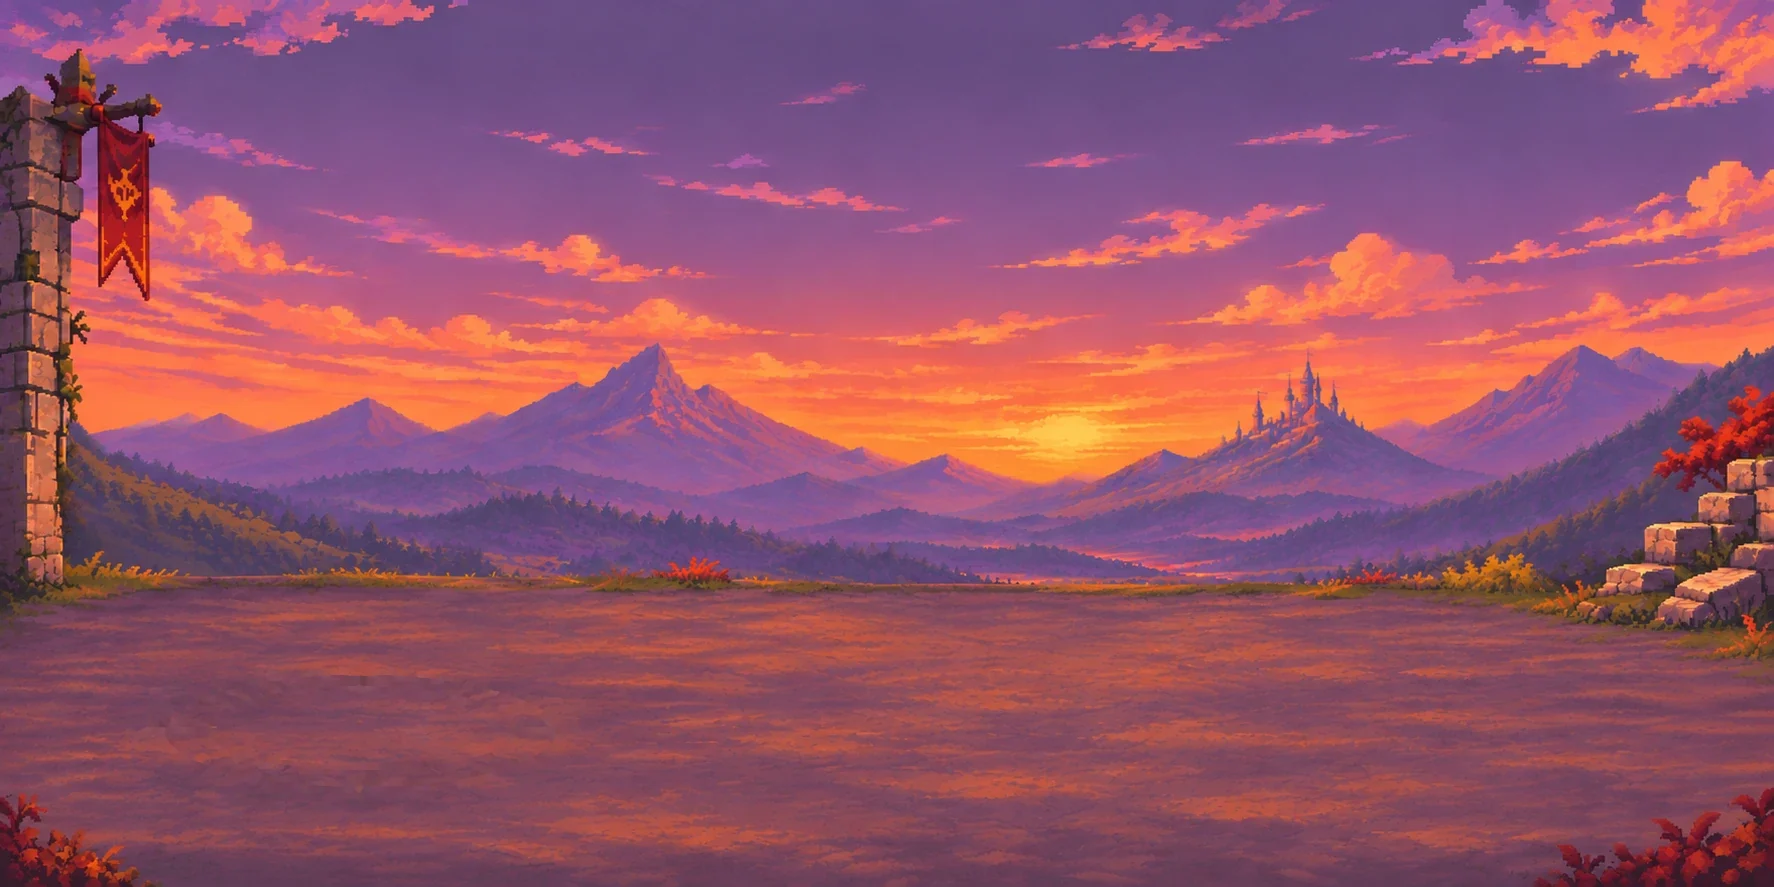
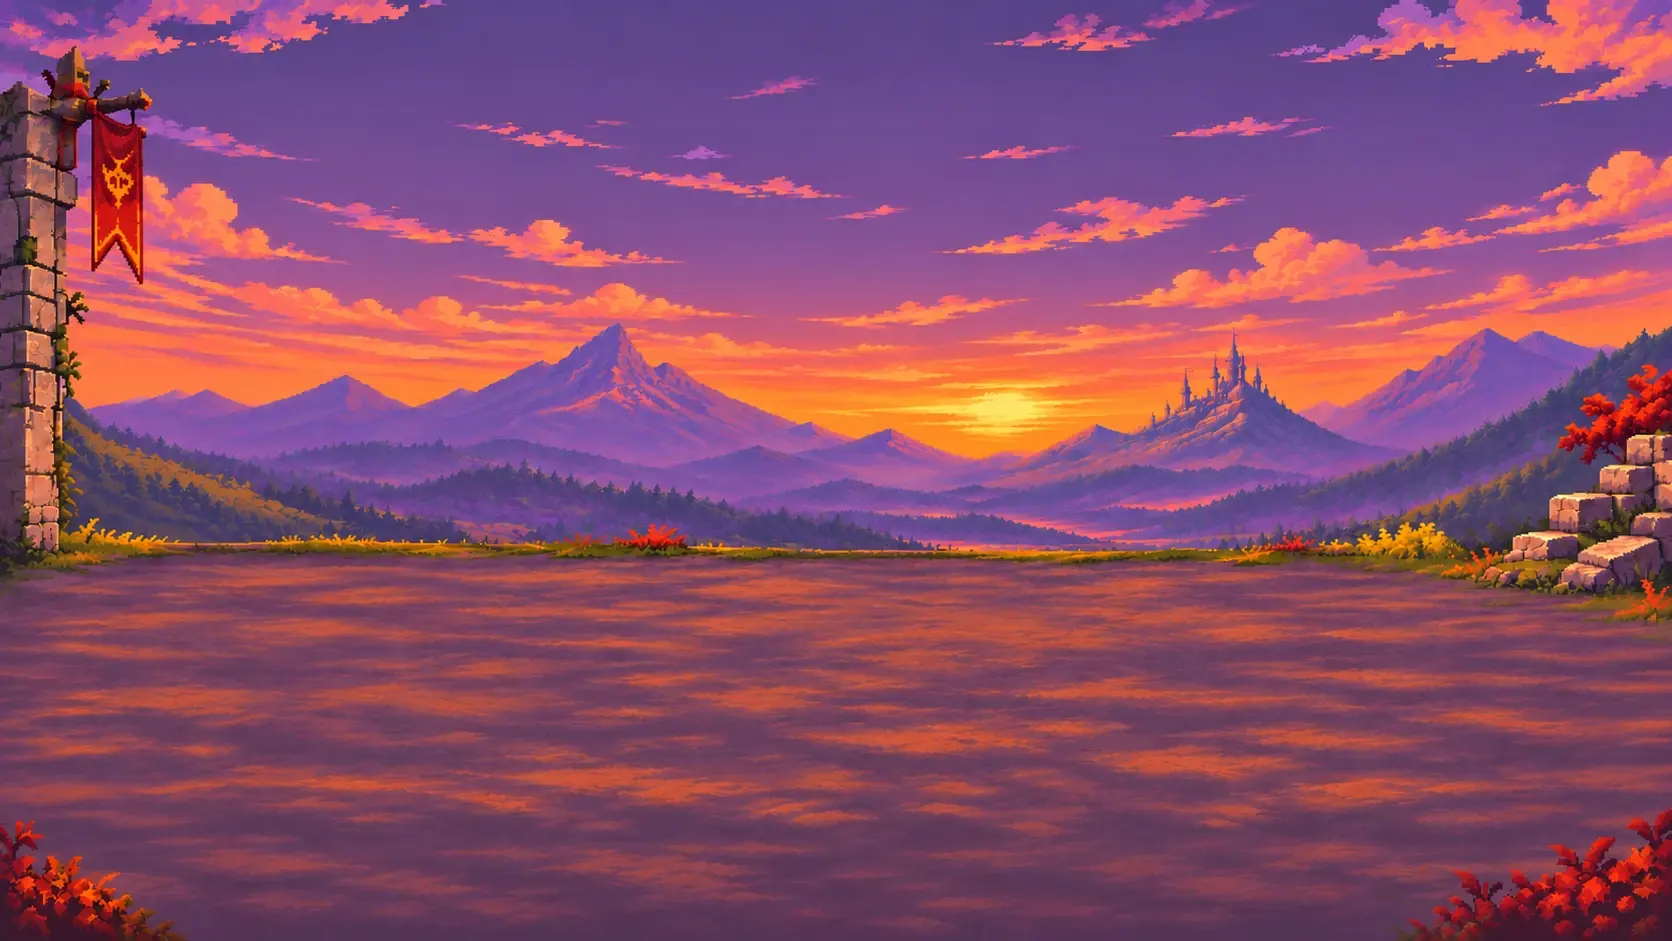
Scheda personaggio: sfondo 16:9 a tutto schermo senza bordi, pagina ferma su computer
Lo sfondo copre sempre l'intera finestra; la scena è 16:9, base e pergamena
si ridimensionano insieme. Su computer lo scorrimento è bloccato.

Claude-Session: https://claude.ai/code/session_01Ly8M64WoiNxbZKkFq6qyb5

diff --git a/index.html b/index.html
@@ -26,7 +26,7 @@
     <link rel="preconnect" href="https://fonts.googleapis.com">
     <link rel="preconnect" href="https://fonts.gstatic.com" crossorigin>
     <link href="https://fonts.googleapis.com/css2?family=VT323&display=swap" rel="stylesheet">
-    <link rel="stylesheet" href="css/pixel.css?v=20261125f">
+    <link rel="stylesheet" href="css/pixel.css?v=20261125g">
 </head>
 
 <body class="home">
@@ -978,7 +978,7 @@
 
                     <h2 class="char-title">Scheda Personaggio</h2>
 
-                    <img class="char-el char-info" src="immagini/scheda-info.webp" width="1299" height="1114" style="--x: 48.4%; --y: 15.5%; --w: 41.7%; --h: 71.6%" alt="Lorenzo Carducci. Classe: stagista, informatica. Gilda: Skilla. Alleati: Guglielmo Lulli, tutor universitario, e Silvia Innocenzi, tutor aziendale. Missione: dal 07/09/2026 al 23/12/2026.">
+                    <img class="char-el char-info" src="immagini/scheda-info.webp" width="1299" height="1114" style="--x: 49.6%; --y: 15.4%; --w: 45.1%; --h: 68.7%" alt="Lorenzo Carducci. Classe: stagista, informatica. Gilda: Skilla. Alleati: Guglielmo Lulli, tutor universitario, e Silvia Innocenzi, tutor aziendale. Missione: dal 07/09/2026 al 23/12/2026.">
                     <div class="char-el char-card" style="--x: 42.841%; --y: 14.205%; --w: 55.299%; --h: 78.918%" aria-hidden="true"></div>
 
                     <div class="char-el char-name" style="--x: 52.206%; --y: 13.994%; --w: 36.512%; --h: 11.359%"><h3>Lorenzo Carducci</h3></div>
@@ -1013,17 +1013,17 @@
 
     </main>
 
-    <script src="js/stage.js?v=20261125f"></script>
-    <script src="js/script.js?v=20261125f"></script>
-    <script src="js/scene.js?v=20261125f"></script>
-    <script src="js/home.js?v=20261125f"></script>
-    <script src="js/theme.js?v=20261125f"></script>
-    <script src="js/diario.js?v=20261125f"></script>
-    <script src="js/simulatore.js?v=20261125f"></script>
-    <script src="js/missioni.js?v=20261125f"></script>
-    <script src="js/libreria.js?v=20261125f"></script>
-    <script src="js/inventario.js?v=20261125f"></script>
-    <script src="js/screens.js?v=20261125f"></script>
+    <script src="js/stage.js?v=20261125g"></script>
+    <script src="js/script.js?v=20261125g"></script>
+    <script src="js/scene.js?v=20261125g"></script>
+    <script src="js/home.js?v=20261125g"></script>
+    <script src="js/theme.js?v=20261125g"></script>
+    <script src="js/diario.js?v=20261125g"></script>
+    <script src="js/simulatore.js?v=20261125g"></script>
+    <script src="js/missioni.js?v=20261125g"></script>
+    <script src="js/libreria.js?v=20261125g"></script>
+    <script src="js/inventario.js?v=20261125g"></script>
+    <script src="js/screens.js?v=20261125g"></script>
 
 </body>
 

diff --git a/css/pixel.css b/css/pixel.css
@@ -4501,9 +4501,13 @@ body[data-screen="viaggio"] main {
     content: "";
     position: absolute;
     inset: 0;
-    background: url("../immagini/scheda-sfondo.webp") 50% 55% / cover no-repeat;
-    filter: blur(8px) brightness(0.9);
-    transform: scale(1.06);
+    background: url("../immagini/scheda-sfondo.webp") 50% 62% / cover no-repeat;
+}
+
+/* Su computer la scheda sta ferma: niente scorrimento */
+body[data-screen="personaggio"] {
+    overflow: hidden;
+    overscroll-behavior: none;
 }
 
 body[data-screen="personaggio"] main {
@@ -4514,9 +4518,9 @@ body[data-screen="personaggio"] main {
     position: absolute;
     left: 50%;
     top: 50%;
-    width: min(100vw, calc(100vh * 2));
-    width: min(100vw, calc(100svh * 2));
-    aspect-ratio: 2 / 1;
+    width: min(100vw, calc(100vh * 16 / 9));
+    width: min(100vw, calc(100svh * 16 / 9));
+    aspect-ratio: 16 / 9;
     transform: translate(-50%, -50%);
     container-type: inline-size;
 }
@@ -4525,10 +4529,6 @@ body[data-screen="personaggio"] main {
     position: absolute;
     inset: 0;
     --k: calc(100cqw / 1774);
-    /* Lo sfondo nitido sta dentro la scena, nella stessa scala del cavaliere:
-       così la base poggia sempre sul terreno, qualunque sia lo schermo.
-       Lo strato sfocato dietro riempie solo i bordi. */
-    background: url("../immagini/scheda-sfondo.webp") 0 0 / 100% 100% no-repeat;
     font-family: var(--font);
     color: var(--cream);
     image-rendering: pixelated;
@@ -4547,10 +4547,10 @@ body[data-screen="personaggio"] main {
    L'ombra sotto i piedi è disegnata dentro l'animazione, a tempo con i passi */
 .char-hero {
     position: absolute;
-    left: 8.17%;
-    top: 14.15%;
-    height: 77.47%;
-    aspect-ratio: 432 / 687;
+    left: 7.44%;
+    top: 15.23%;
+    height: 73.35%;
+    aspect-ratio: 460 / 732;
 }
 
 .char-board .char-hero img {
@@ -5038,6 +5038,12 @@ body[data-screen="personaggio"] main {
     .char-title { flex: 0 0 100%; }
 
     .char-stat { flex: 0 0 calc(50% - 8px); }
+
+    /* Sul telefono la pagina scorre come al solito */
+    body[data-screen="personaggio"] {
+        overflow: auto;
+        overscroll-behavior: auto;
+    }
 
     /* Sul telefono i dati restano scritti dal sito, leggibili, e la pergamena sparisce */
     .character .char-info { display: none; }
